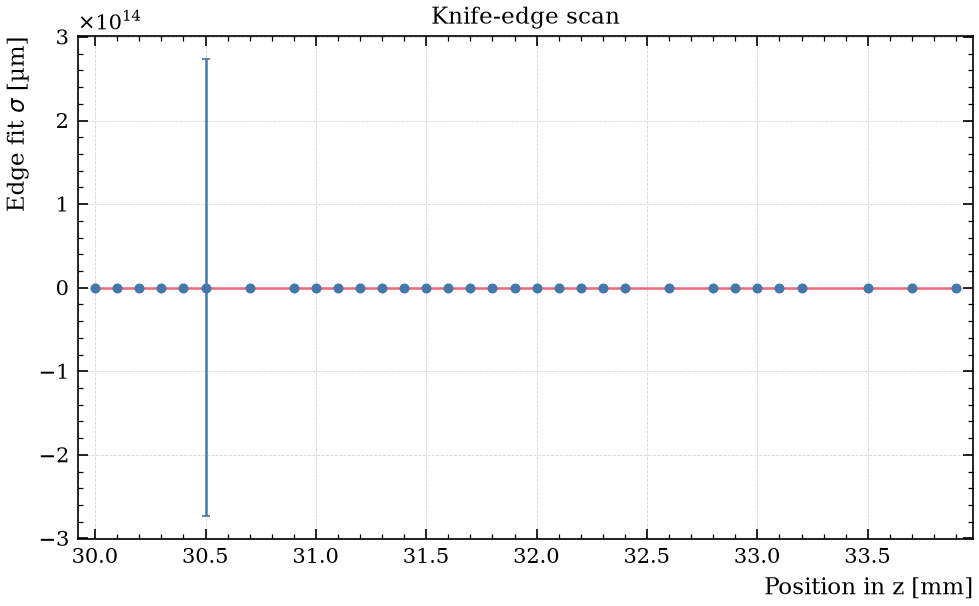
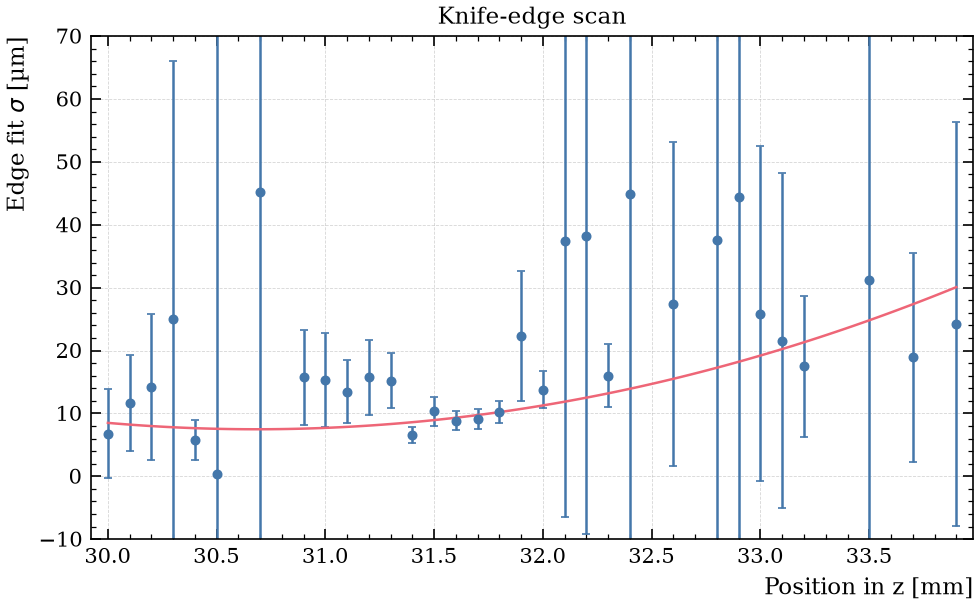
ana

diff --git a/knife-edge.py b/knife-edge.py
@@ -119,11 +119,11 @@ class KnifeEdge(BaseAnalysis):
             with warnings.catch_warnings():
                 warnings.simplefilter("error", RuntimeWarning)
                 warnings.simplefilter("error", OptimizeWarning)
-                coefs, cov = np.polyfit(zs_g, sig_g, 2, w=1/err_g cov="unscaled")
-                residuals = sig - np.polyval(coefs, zs_g)
+                coefs, cov = np.polyfit(zs_g, sig_g, 2, w=1/err_g, cov="unscaled")
+                residuals = sig_g - np.polyval(coefs, zs_g)
                 mad = np.median(np.abs(residuals - np.median(residuals)))
                 mask = np.abs(residuals) < 3 * 1.4826 * mad
-                coefs, _ = np.polyfit(zs_g[mask], sig_g[mask], 2, cov=True)
+                coefs, _ = np.polyfit(zs_g[mask], sig_g[mask], 2, w=1/err_g[mask], cov="unscaled")
                 x = np.linspace(min(zs_g), max(zs_g), 100)
                 yfit = np.polyval(coefs, x)
                 ax_zs.plot(x, 1000 * yfit, label = rf"2nd order poly fit with $\sigma_{{\mathrm{{min}}}} = {1000 * yfit.min():.2f}$ µm")
@@ -132,6 +132,7 @@ class KnifeEdge(BaseAnalysis):
         ax_zs.set_xlabel("Position in z [mm]")
         ax_zs.set_ylabel(rf"Edge fit $\sigma$ [µm]")
         ax_zs.set_title("Knife-edge scan")
+        ax_zs.set_ylim(-10, 70)
         fig.savefig(self.plotdir / "sigma_vs_z.png", dpi=150)
         plt.close()
 
